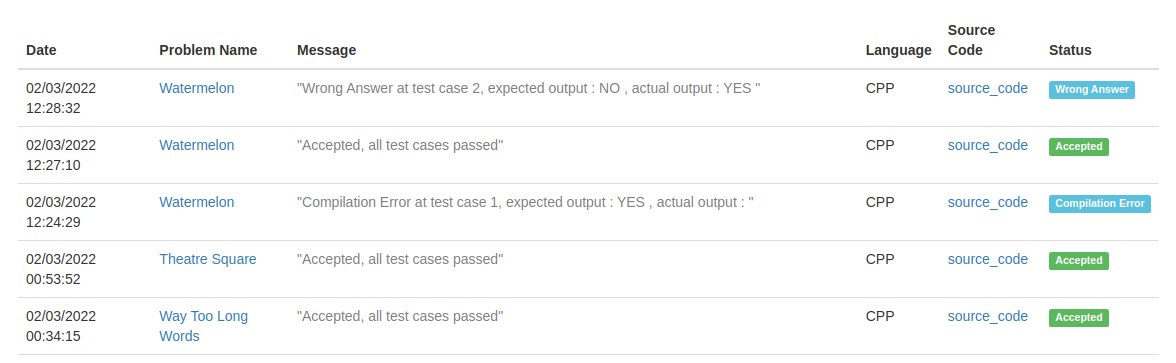
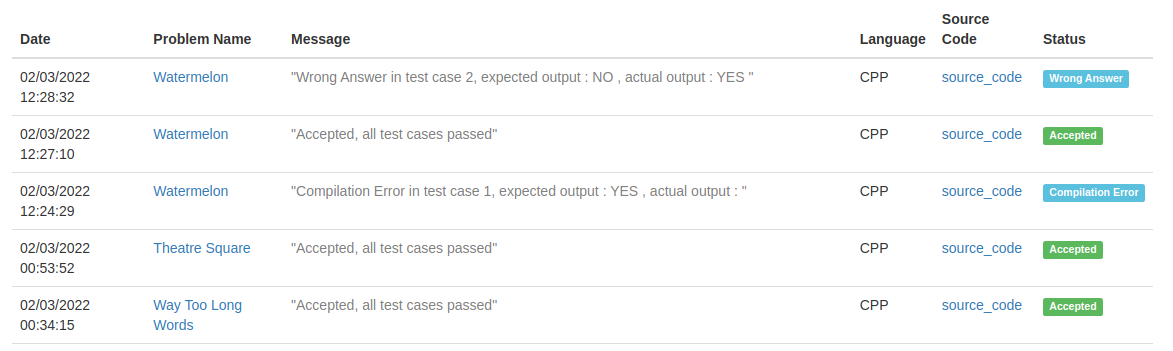
update submissions response

diff --git a/Services/ExecutionService.cs b/Services/ExecutionService.cs
@@ -79,7 +79,7 @@ public class ExecutionService : IExecutionService
                 if (compilerResponse != null && !compilerResponse.status.Equals(ACCEPTED_STATUS))
                 {
 
-                    serviceResponse = new ServiceResponse(compilerResponse.status + " at test case " + testCaseIndex + ", expected output : "
+                    serviceResponse = new ServiceResponse(compilerResponse.status + " in test case " + testCaseIndex + ", expected output : "
                      + compilerResponse.expectedOutput + ", actual output : " + compilerResponse.output, compilerResponse.status,
                      problem.Id, problem.Name, DateTime.Now, submission.Language, submission.SourceCode);
 
